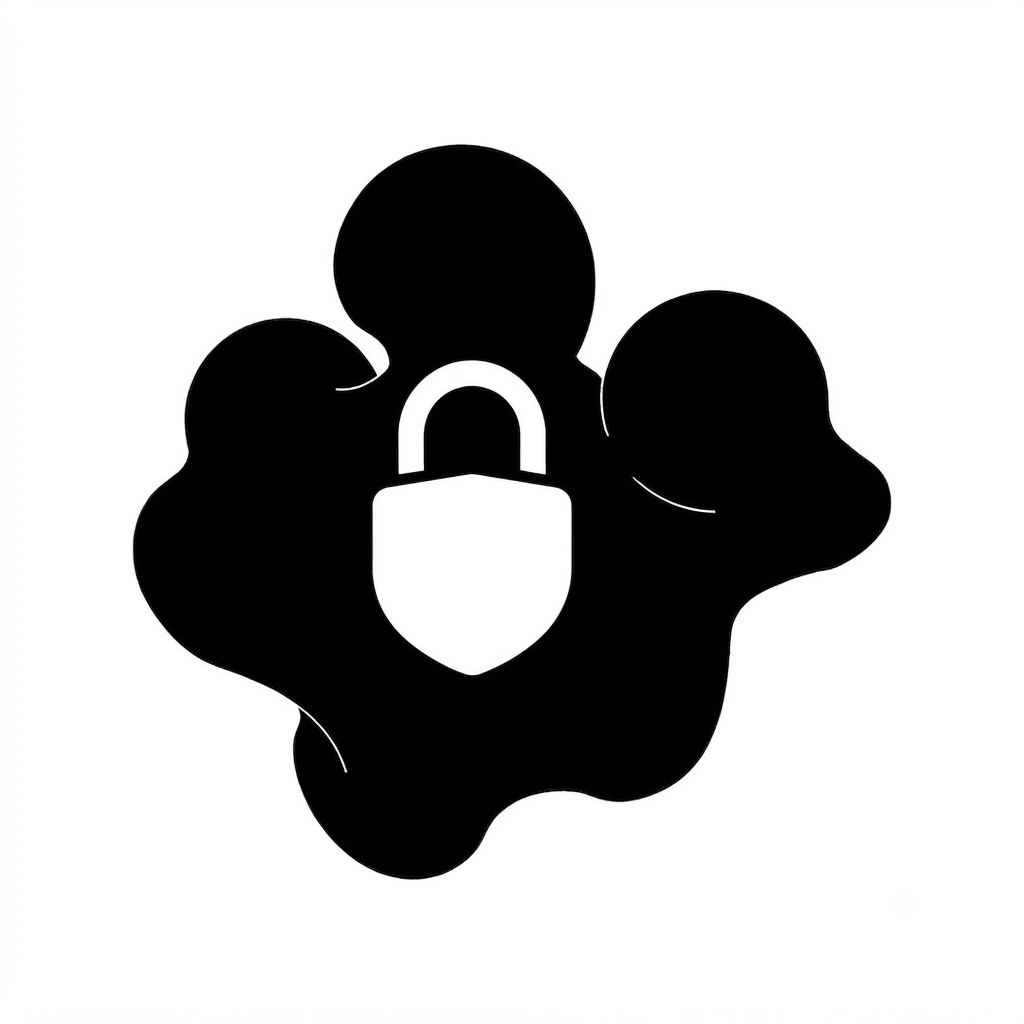
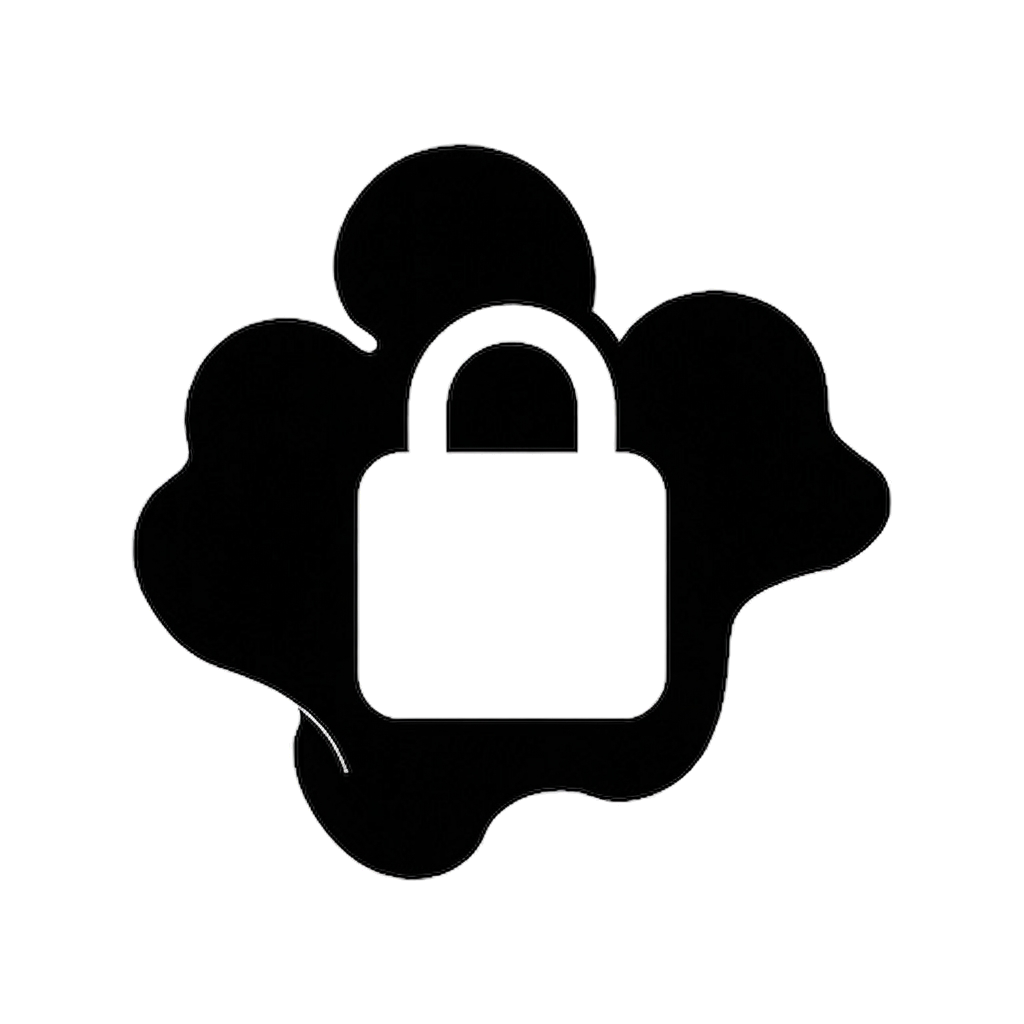
アイコンの絵柄を差し替えた（南京錠を大きく角ばった形に）
送られた新しい絵をそのまま原本にして、4つを作り直した。
作りかたは前回のまま（180×180・RGB・Pillow の LANCZOS・白背景・アルファ無し）。

白の判定を 250 から 248 に下げた。新しい絵の地に 248〜249 のムラが
1画素だけ混じっていて、丸マスクの検査に引っかかったため。
make-icons.py と check-icons.py の両方を同じ値にしてある。

  うち   180x180 9.4KB 色数 556 にじみ 2.23% 黒 21.3%
  あちら 180x180 8.8KB 色数 579 にじみ 2.37% 黒 25.5%

確認用ページ（TEST3 / TEST4）も新しい絵柄になる。

Changed region(s): [[0.3438, 0.2812, 0.6875, 0.7188], [0.3125, 0.7188, 0.3438, 0.75], [0.2812, 0.6875, 0.3125, 0.7188]]

diff --git a/tools/check-icons.py b/tools/check-icons.py
@@ -29,7 +29,7 @@ ASSETS = Path(__file__).resolve().parent.parent / "assets"
 FILES = ["icon-src.png", "apple-touch-icon.png", "icon-192.png", "icon-512.png"]
 
 SAFE_RATIO = 0.40      # 丸マスクの安全圏。中心から「一辺 × 0.40」まで
-WHITE = 250            # これ以上は白＝背景とみなす
+WHITE = 248            # これ以上は白＝背景とみなす（make-icons.py と同じ）
 
 
 def check(path):
@@ -46,7 +46,7 @@ def check(path):
     # 原本は撮り込みのムラで 253 などになっていることがある。
     # make-icons.py が白に寄せるので、ほぼ白なら通す。
     corners = [rgb.getpixel(p) for p in [(0, 0), (w - 1, 0), (0, h - 1), (w - 1, h - 1)]]
-    if not all(min(c) >= 250 for c in corners):
+    if not all(min(c) >= WHITE for c in corners):
         ng.append(f"四隅が白くない {corners}")
 
     # 中心からいちばん遠い「白でない点」を探す

diff --git a/tools/make-icons.py b/tools/make-icons.py
@@ -53,8 +53,8 @@ def main():
     base.paste(src, (0, 0), src if src.mode in ("RGBA", "LA", "PA") else None)
 
     # 取り込みのムラで、白いはずの地が 253 などになっていることがある。
-    # ほぼ白のところだけを白に寄せる。絵柄とふちの中間色には触らない。
-    base = base.point(lambda v: 255 if v >= 250 else v)
+    # ほぼ白（248以上）のところだけを白に寄せる。絵柄とふちの中間色には触らない。
+    base = base.point(lambda v: 255 if v >= 248 else v)
 
     for size, name in OUT:
         im = base.resize((size, size), Image.LANCZOS)
